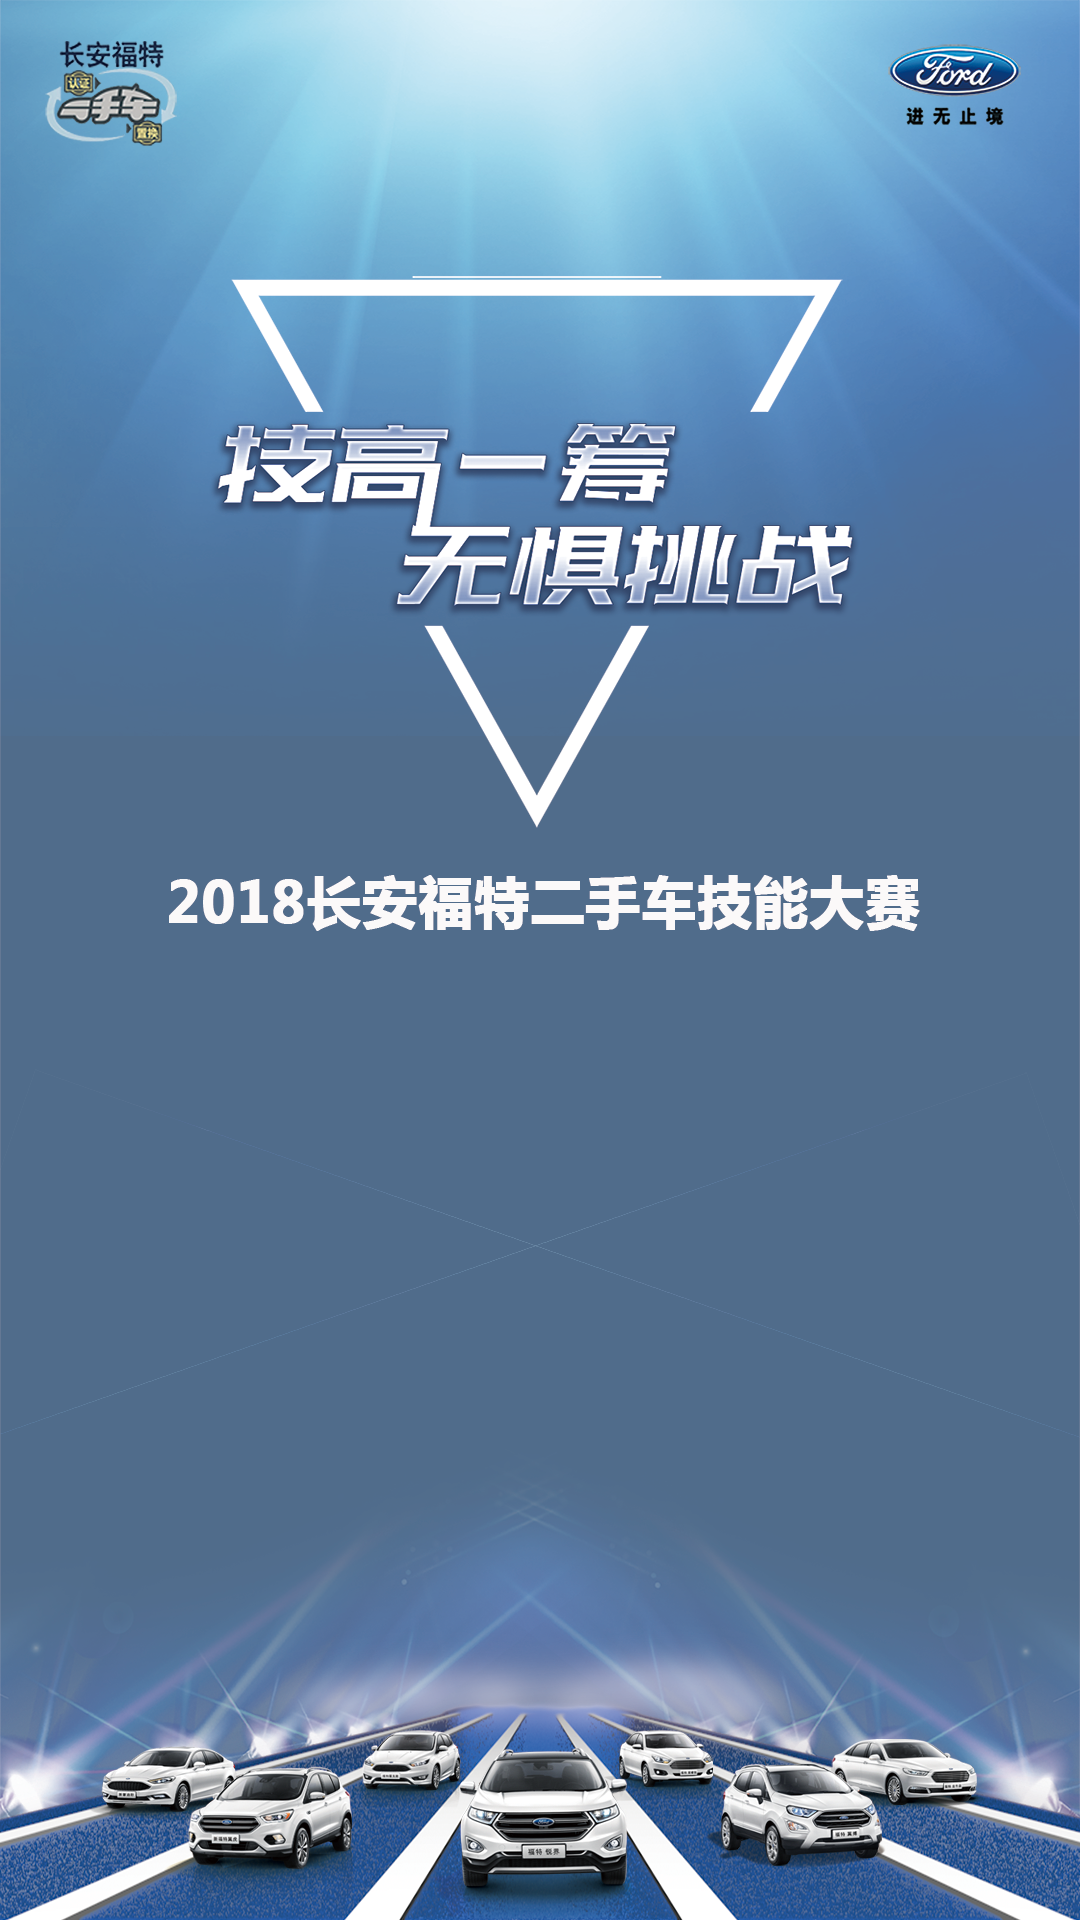
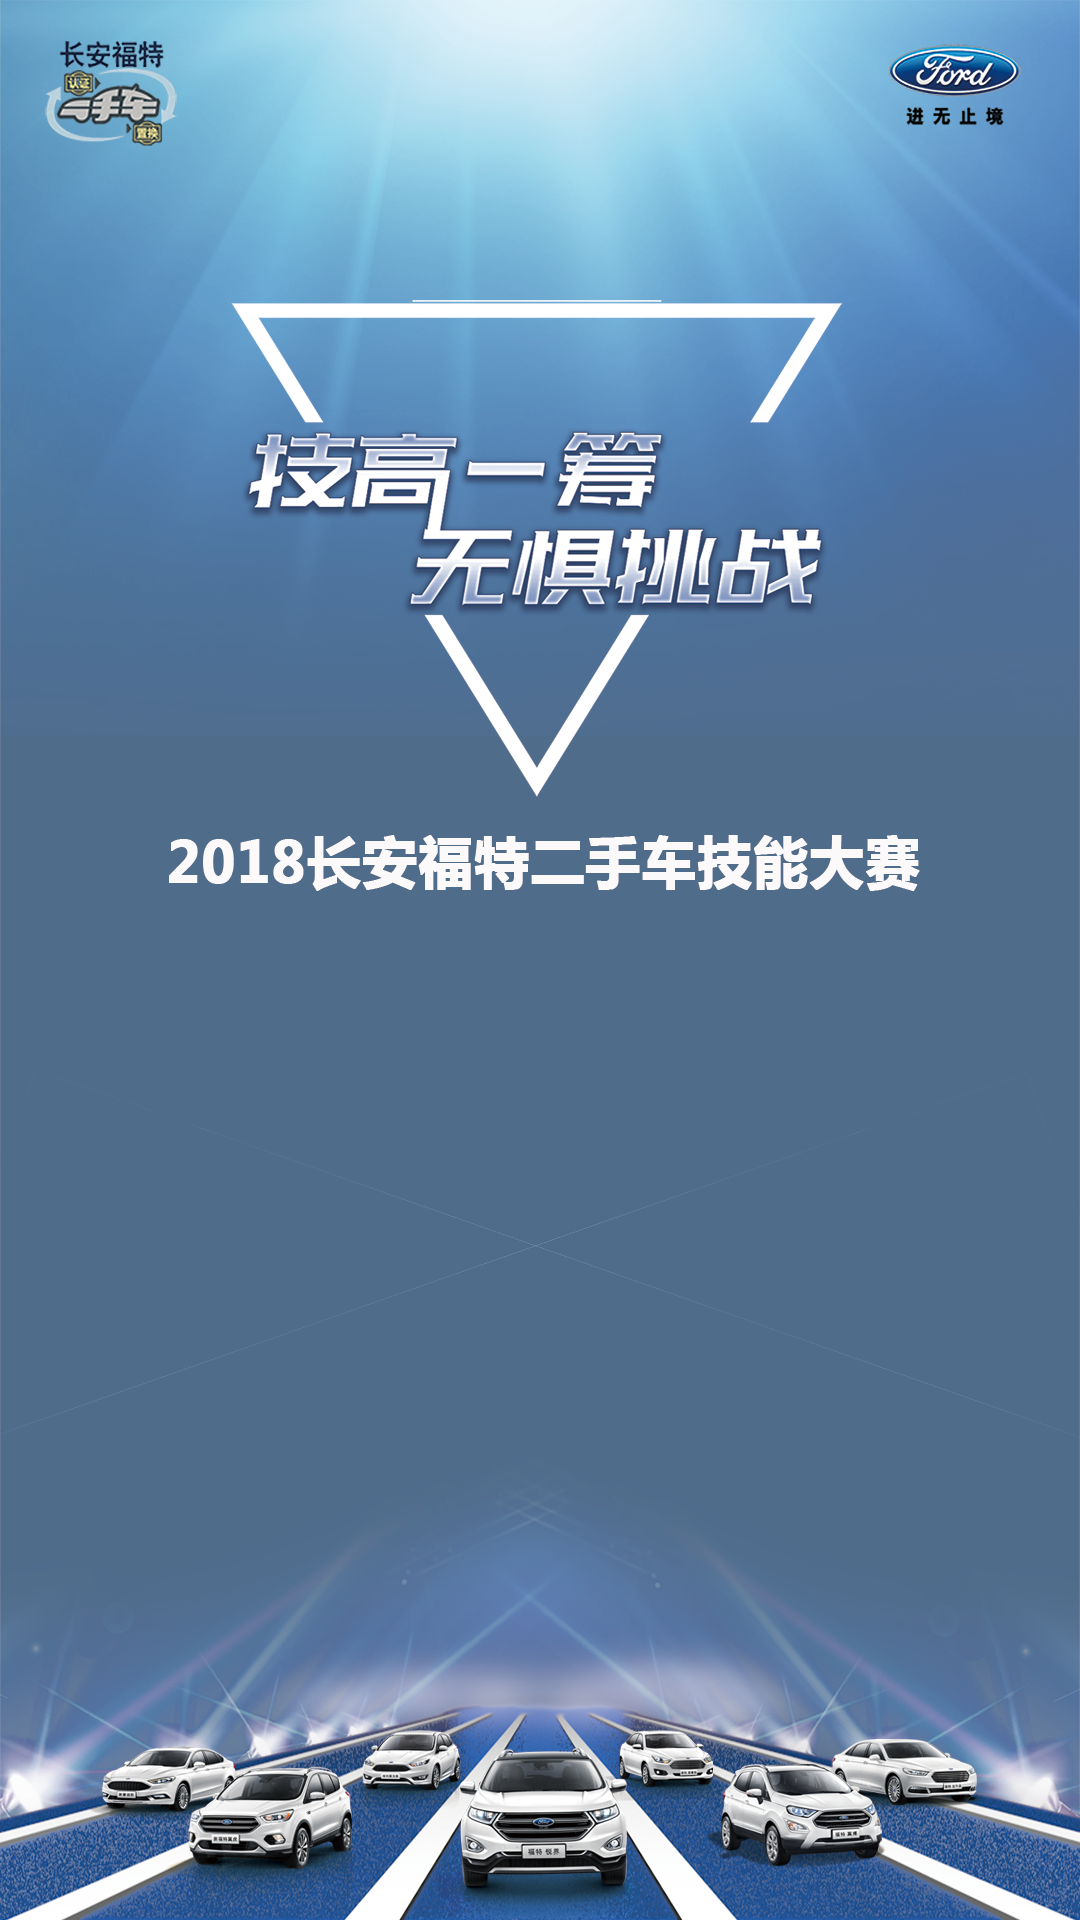
图片更新

Changed region(s): [[0.1528, 0.125, 0.8556, 0.5]]

diff --git a/src/main/webapp/WEB-INF/static/css/style.css b/src/main/webapp/WEB-INF/static/css/style.css
@@ -27,7 +27,7 @@ background-size: 100% 100%;}
 .content{
 	width: 100%;
 	height: 40%;
-	margin-top:92%;
+	margin-top:85%;
 	float: left;
 	position: relative;
 }
